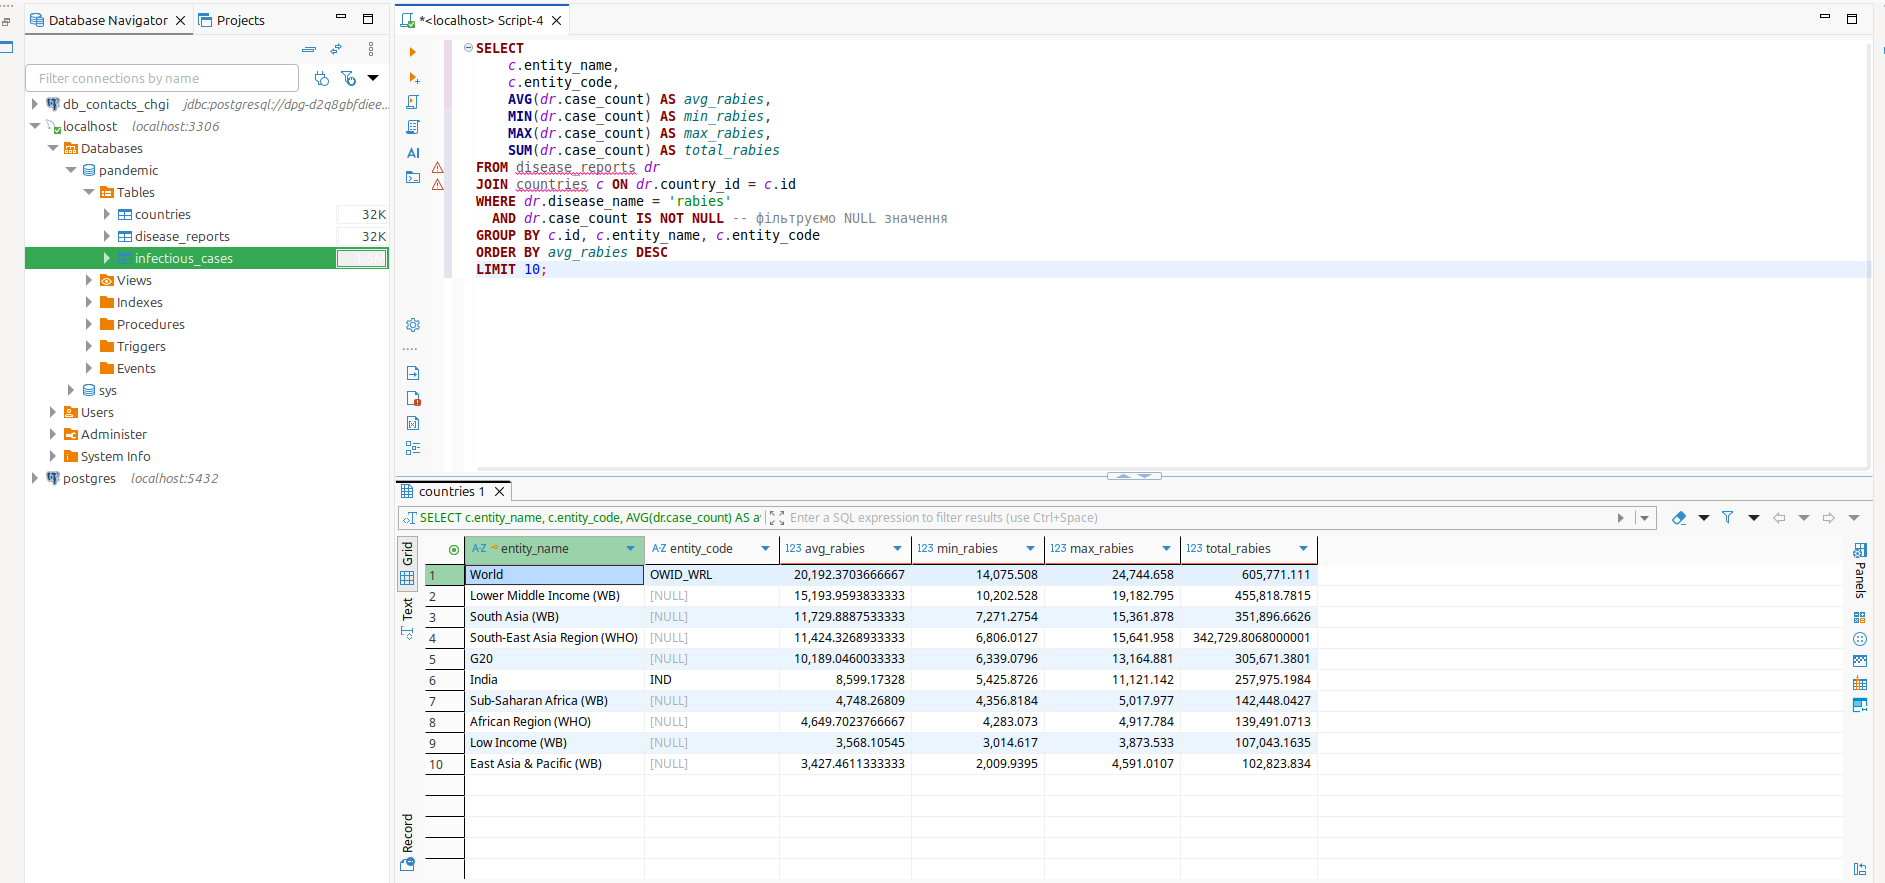
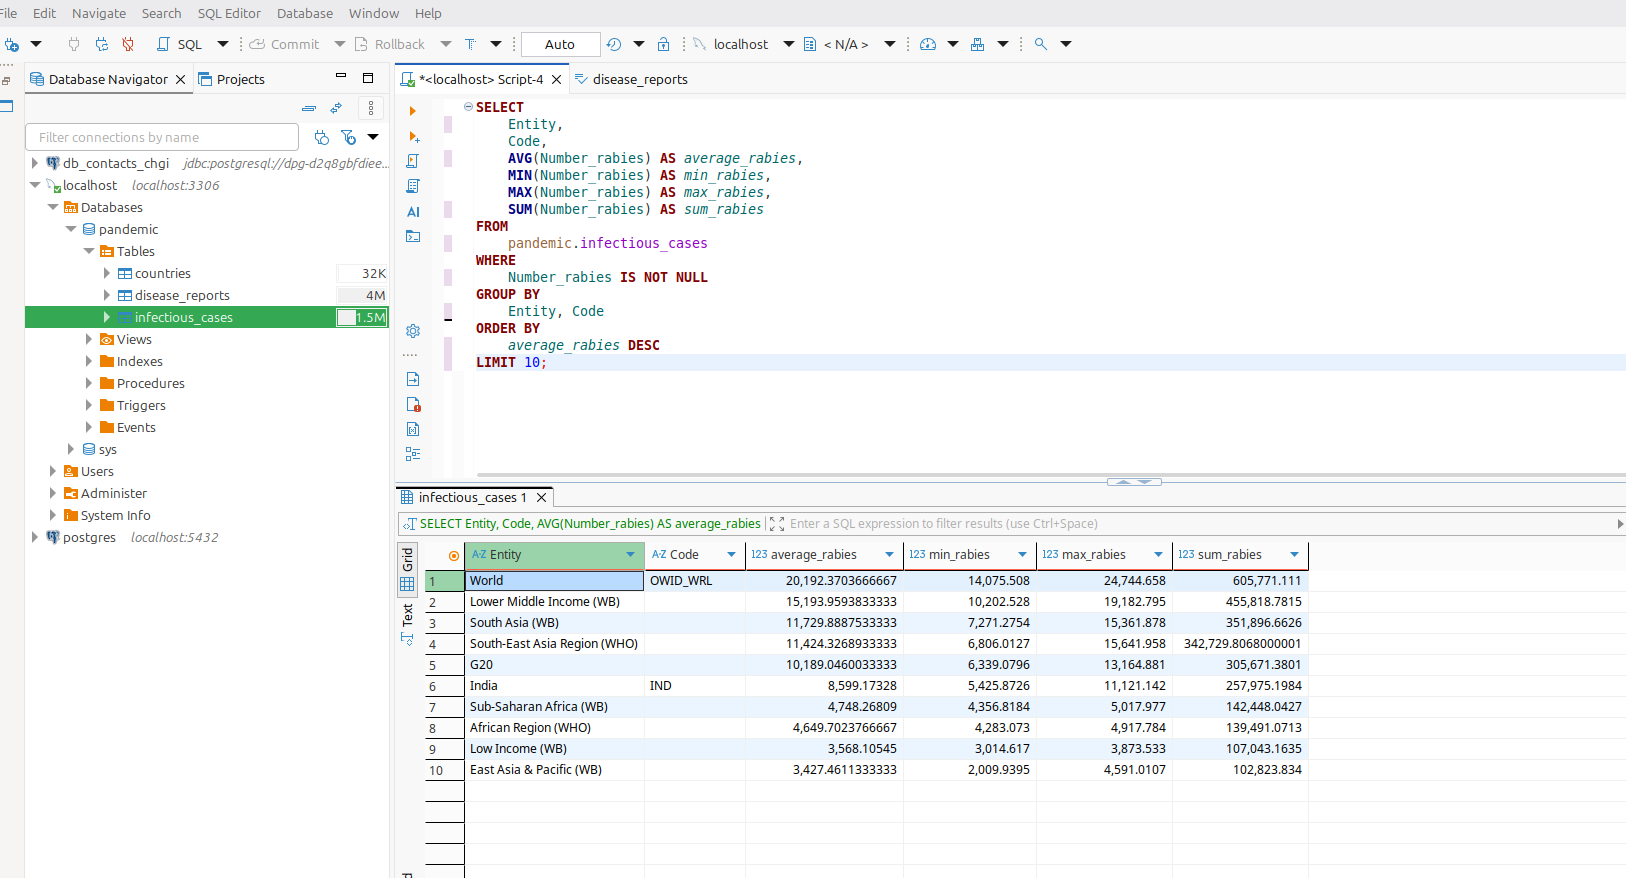
Fixes

diff --git a/README.md b/README.md
@@ -21,6 +21,24 @@ CREATE DATABASE IF NOT EXISTS pandemic;
 USE pandemic;
 ```
 
+DDL
+```sql
+CREATE TABLE `infectious_cases` (
+  `Entity` varchar(50) DEFAULT NULL,
+  `Code` varchar(50) DEFAULT NULL,
+  `Year` int DEFAULT NULL,
+  `Number_yaws` double DEFAULT NULL,
+  `polio_cases` double DEFAULT NULL,
+  `cases_guinea_worm` double DEFAULT NULL,
+  `Number_rabies` double DEFAULT NULL,
+  `Number_malaria` double DEFAULT NULL,
+  `Number_hiv` double DEFAULT NULL,
+  `Number_tuberculosis` double DEFAULT NULL,
+  `Number_smallpox` double DEFAULT NULL,
+  `Number_cholera_cases` double DEFAULT NULL
+) ENGINE=InnoDB DEFAULT CHARSET=utf8mb4 COLLATE=utf8mb4_0900_ai_ci;
+```
+
 _1_Create_DB.png_
 ![1_Create_DB.png](./1_Create_DB.png)
 
@@ -55,80 +73,33 @@ CREATE TABLE disease_reports (
 - Заповнення таблиці `countries`
 ```sql
 INSERT INTO countries (entity_name, entity_code)
-SELECT DISTINCT Entity, NULLIF(Code, '') 
+SELECT DISTINCT Entity, Code 
 FROM infectious_cases;
 ```
 - Заповнення таблиці `disease_reports`
 ```sql
 INSERT INTO disease_reports (country_id, report_year, disease_name, case_count)
-SELECT 
-    c.id, 
-    ic.Year, 
-    'yaws', 
-    NULLIF(ic.Number_yaws, '') -- Конвертація порожніх рядків у NULL
-FROM infectious_cases ic
-JOIN countries c ON ic.Entity = c.entity_name
-WHERE ic.Number_yaws != '' OR ic.Number_yaws IS NOT NULL
-
+SELECT c.id, ic.Year, 'yaws', ic.Number_yaws FROM infectious_cases ic JOIN countries c ON ic.Entity = c.entity_name WHERE ic.Number_yaws IS NOT NULL
 UNION ALL
-
-SELECT c.id, ic.Year, 'polio', ic.polio_cases 
-FROM infectious_cases ic
-JOIN countries c ON ic.Entity = c.entity_name
-WHERE ic.polio_cases IS NOT NULL
-
+SELECT c.id, ic.Year, 'polio', ic.polio_cases FROM infectious_cases ic JOIN countries c ON ic.Entity = c.entity_name WHERE ic.polio_cases IS NOT NULL
 UNION ALL
-
-SELECT c.id, ic.Year, 'guinea_worm', ic.cases_guinea_worm 
-FROM infectious_cases ic
-JOIN countries c ON ic.Entity = c.entity_name
-WHERE ic.cases_guinea_worm IS NOT NULL
-
+SELECT c.id, ic.Year, 'guinea_worm', ic.cases_guinea_worm FROM infectious_cases ic JOIN countries c ON ic.Entity = c.entity_name WHERE ic.cases_guinea_worm IS NOT NULL
 UNION ALL
-
-SELECT c.id, ic.Year, 'rabies', ic.Number_rabies 
-FROM infectious_cases ic
-JOIN countries c ON ic.Entity = c.entity_name
-WHERE ic.Number_rabies IS NOT NULL
-
+SELECT c.id, ic.Year, 'rabies', ic.Number_rabies FROM infectious_cases ic JOIN countries c ON ic.Entity = c.entity_name WHERE ic.Number_rabies IS NOT NULL
 UNION ALL
-
-SELECT c.id, ic.Year, 'malaria', ic.Number_malaria 
-FROM infectious_cases ic
-JOIN countries c ON ic.Entity = c.entity_name
-WHERE ic.Number_malaria IS NOT NULL
-
+SELECT c.id, ic.Year, 'malaria', ic.Number_malaria FROM infectious_cases ic JOIN countries c ON ic.Entity = c.entity_name WHERE ic.Number_malaria IS NOT NULL
 UNION ALL
-
-SELECT c.id, ic.Year, 'hiv', ic.Number_hiv 
-FROM infectious_cases ic
-JOIN countries c ON ic.Entity = c.entity_name
-WHERE ic.Number_hiv IS NOT NULL
-
+SELECT c.id, ic.Year, 'hiv', ic.Number_hiv FROM infectious_cases ic JOIN countries c ON ic.Entity = c.entity_name WHERE ic.Number_hiv IS NOT NULL
 UNION ALL
-
-SELECT c.id, ic.Year, 'tuberculosis', ic.Number_tuberculosis 
-FROM infectious_cases ic
-JOIN countries c ON ic.Entity = c.entity_name
-WHERE ic.Number_tuberculosis IS NOT NULL
-
+SELECT c.id, ic.Year, 'tuberculosis', ic.Number_tuberculosis FROM infectious_cases ic JOIN countries c ON ic.Entity = c.entity_name WHERE ic.Number_tuberculosis IS NOT NULL
 UNION ALL
-
-SELECT c.id, ic.Year, 'smallpox', NULLIF(ic.Number_smallpox, '') 
-FROM infectious_cases ic
-JOIN countries c ON ic.Entity = c.entity_name
-WHERE ic.Number_smallpox != '' OR ic.Number_smallpox IS NOT NULL
-
+SELECT c.id, ic.Year, 'smallpox', ic.Number_smallpox FROM infectious_cases ic JOIN countries c ON ic.Entity = c.entity_name WHERE ic.Number_smallpox IS NOT NULL
 UNION ALL
-
-SELECT c.id, ic.Year, 'cholera', ic.Number_cholera_cases 
-FROM infectious_cases ic
-JOIN countries c ON ic.Entity = c.entity_name
-WHERE ic.Number_cholera_cases IS NOT NULL;
+SELECT c.id, ic.Year, 'cholera', ic.Number_cholera_cases FROM infectious_cases ic JOIN countries c ON ic.Entity = c.entity_name WHERE ic.Number_cholera_cases IS NOT NULL;
 ```
 
 ```sql
-SELECT COUNT(*) FROM infectious_cases
+SELECT COUNT(*) FROM infectious_cases;
 -- Result: 10521
 ```
 
@@ -149,18 +120,20 @@ _2_3N.png_
 
 ```sql
 SELECT 
-    c.entity_name, 
-    c.entity_code,
-    AVG(dr.case_count) AS avg_rabies,
-    MIN(dr.case_count) AS min_rabies,
-    MAX(dr.case_count) AS max_rabies,
-    SUM(dr.case_count) AS total_rabies
-FROM disease_reports dr
-JOIN countries c ON dr.country_id = c.id
-WHERE dr.disease_name = 'rabies' 
-  AND dr.case_count IS NOT NULL -- фільтруємо NULL значення
-GROUP BY c.id, c.entity_name, c.entity_code
-ORDER BY avg_rabies DESC
+    Entity,
+    Code,
+    AVG(Number_rabies) AS average_rabies,
+    MIN(Number_rabies) AS min_rabies,
+    MAX(Number_rabies) AS max_rabies,
+    SUM(Number_rabies) AS sum_rabies
+FROM 
+    pandemic.infectious_cases
+WHERE 
+    Number_rabies IS NOT NULL 
+GROUP BY 
+    Entity, Code
+ORDER BY 
+    average_rabies DESC
 LIMIT 10;
 ```
 
@@ -182,17 +155,12 @@ _3_Number_rabies.png_
 
 ```sql
 SELECT 
-    report_year,
-    -- Зміна дати
-    STR_TO_DATE(CONCAT(report_year, '-01-01'), '%Y-%m-%d') AS start_of_year_date,
-    -- Поточна дата
+    Year,
+    MAKEDATE(Year, 1) AS start_of_year_date,
     CURDATE() AS today_date,
-    -- Різниця в роках
-    TIMESTAMPDIFF(YEAR, STR_TO_DATE(CONCAT(report_year, '-01-01'), '%Y-%m-%d'), CURDATE()) AS year_difference
+    TIMESTAMPDIFF(YEAR, MAKEDATE(Year, 1), CURDATE()) AS year_difference
 FROM 
-    (SELECT DISTINCT report_year FROM disease_reports) AS unique_years
-ORDER BY 
-    report_year DESC;
+    pandemic.infectious_cases;
 ```
 
 _4_Year.png_
@@ -211,20 +179,19 @@ _4_Year.png_
 ```sql
 DELIMITER //
 
-CREATE FUNCTION calculate_year_diff(input_year INT) 
+CREATE FUNCTION calculate_year_diff(input_year INT)
 RETURNS INT
-DETERMINISTIC
+DETERMINISTIC 
+NO SQL
 BEGIN
     DECLARE date_value DATE;
-    DECLARE diff INT;
+    DECLARE years_diff INT;
     
-    -- Зміна дати
-    SET date_value = STR_TO_DATE(CONCAT(input_year, '-01-01'), '%Y-%m-%d');
+    SET date_value = MAKEDATE(input_year, 1);
     
-    -- Різниця в роках
-    SET diff = TIMESTAMPDIFF(YEAR, date_value, CURDATE());
+    SET years_diff = TIMESTAMPDIFF(YEAR, date_value, CURDATE());
     
-    RETURN diff;
+    RETURN years_diff;
 END //
 
 DELIMITER ;
@@ -233,16 +200,16 @@ DELIMITER ;
 - Виконання
 ```sql
 SELECT 
-    report_year,
-    calculate_year_diff(report_year) AS years_since_report
-FROM (
-    SELECT DISTINCT report_year 
-    FROM disease_reports
-) AS unique_years
-ORDER BY report_year DESC;
+    Year,
+    calculate_year_diff(Year) AS year_difference
+FROM 
+    pandemic.infectious_cases;
 ```
 
 _5_Function.png_
 ![5_Function.png](./5_Function.png)
+
+_5_1_Function.png_
+![5_1_Function.png](./5_1_Function.png)
 
 ---
